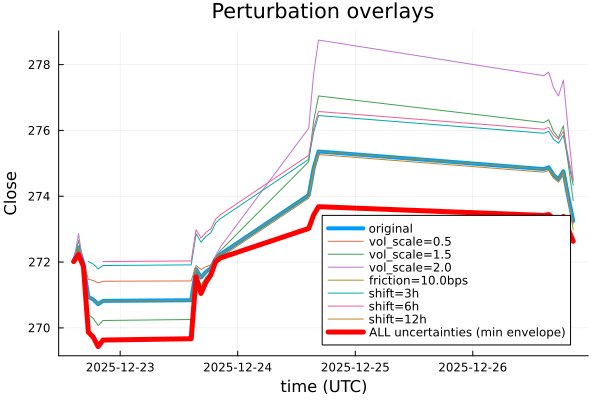
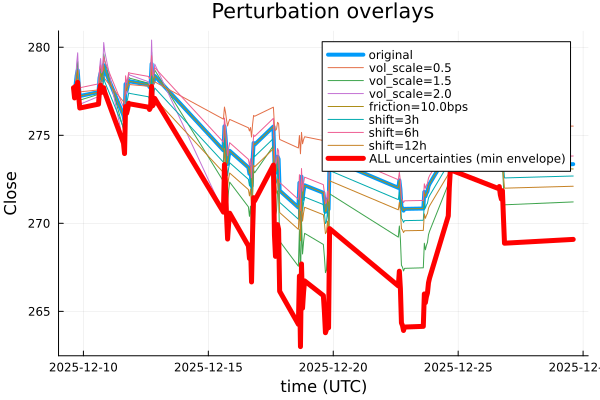
calculations added

diff --git a/data/download_data.py b/data/download_data.py
@@ -47,7 +47,7 @@ INTERVAL = "1h"
 START_DATE = None  # e.g. "2025-12-20"
 END_DATE = None    # e.g. "2025-12-27"
 # Option B) rolling window (used if START_DATE or END_DATE is None)
-ROLLING_DAYS = 7
+ROLLING_DAYS = 20
 
 # Output path (relative to repo root)
 OUTPUT_CSV = Path("data/historical_prices.csv")
